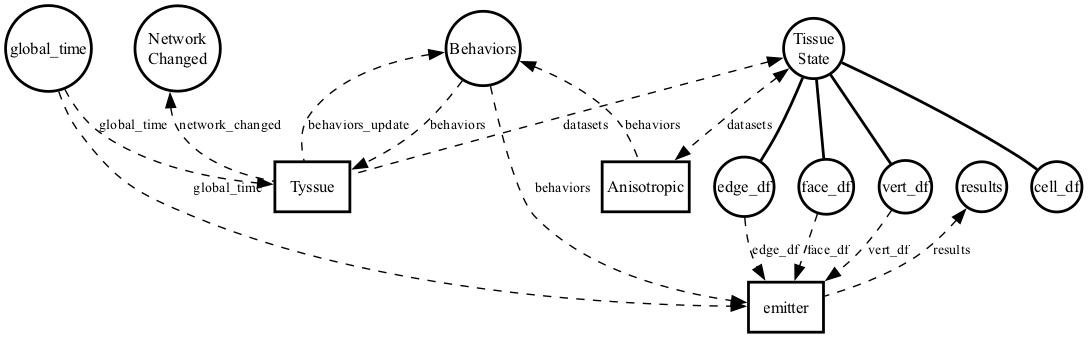
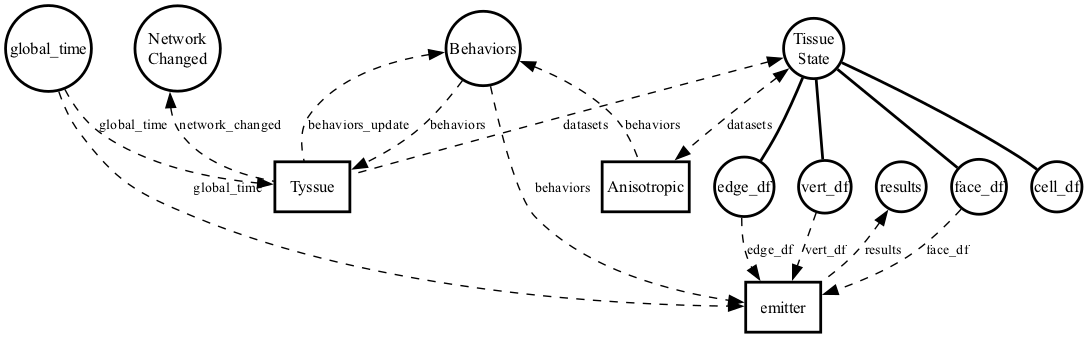
Add dataset pickle regression test; refresh walkthrough artefacts
- tests/test_datasets_no_pickle.py: fails if any workspace/datasets/*.hf5 holds
  an object column or an attribute pickle that imports or calls code, mirroring
  compose-api's hdf5_hazards check (issue #36).
- Walkthrough re-run after the jamming ramp fix: gradient GIF and the
  anisotropic / gillespie bigraph diagrams.

Changed region(s): [[0.7188, 0.2071, 0.9375, 0.6805], [0.6562, 0.6805, 0.9062, 0.9763]]

diff --git a/tests/test_datasets_no_pickle.py b/tests/test_datasets_no_pickle.py
@@ -1,0 +1,62 @@
+"""The bundled meshes must load without unpickling anything.
+
+compose-api refuses an HDF5 upload that pandas/PyTables would unpickle code from
+(biosimulations/compose-api#538, ``compose_api/registry/uploads.py``): an object
+column (a VLArray with ``PSEUDOATOM=object``, which pandas writes for any
+``object`` column in fixed format), or an attribute whose pickle imports or calls
+something. Plain-data pickles (pandas' table-format ``info`` dicts) are allowed.
+This mirrors that check with PyTables, reading attributes raw so nothing is
+unpickled here either.
+
+tyssue's ``save_datasets`` writes fixed format, which pickles string and
+mixed-type columns: store integers as int64 and write frames that hold text with
+``format="table"``.
+"""
+import pickletools
+from pathlib import Path
+
+import numpy as np
+import pytest
+
+tables = pytest.importorskip("tables")
+
+DATASETS = Path(__file__).resolve().parents[1] / "workspace" / "datasets"
+
+# Opcodes through which unpickling imports or calls something.
+_CALLS = {"GLOBAL", "STACK_GLOBAL", "INST", "OBJ", "NEWOBJ", "NEWOBJ_EX", "REDUCE",
+          "BUILD", "EXT1", "EXT2", "EXT4"}
+
+
+def _runs_code(raw):
+    try:
+        return any(op.name in _CALLS for op, _, _ in pickletools.genops(raw))
+    except ValueError:
+        return True
+
+
+def _hazards(path):
+    found = []
+    with tables.open_file(str(path), "r") as h5:
+        version = h5.format_version or "0"
+        if int(version.partition(".")[0]) < 2:
+            found.append(f"PyTables format {version}")
+        for node in h5.walk_nodes("/"):
+            attrs = node._v_attrs
+            for name in attrs._v_attrnames:
+                raw = attrs._g_getattr(node, name)         # raw: never unpickles
+                if isinstance(raw, np.ndarray) and raw.ndim == 0:
+                    raw = raw.item()
+                if isinstance(raw, str):
+                    raw = raw.encode("utf-8", "surrogateescape")
+                if not isinstance(raw, bytes):
+                    continue
+                if name == "PSEUDOATOM" and raw == b"object":
+                    found.append(f"{node._v_pathname}: object column")
+                elif raw.endswith(b".") and raw not in (b"0", b"0.") and _runs_code(raw):
+                    found.append(f"{node._v_pathname}: attribute {name!r} pickle runs code")
+    return found
+
+
+@pytest.mark.parametrize("path", sorted(DATASETS.glob("*.hf5")), ids=lambda p: p.name)
+def test_dataset_has_no_pickled_code(path):
+    assert _hazards(path) == []
